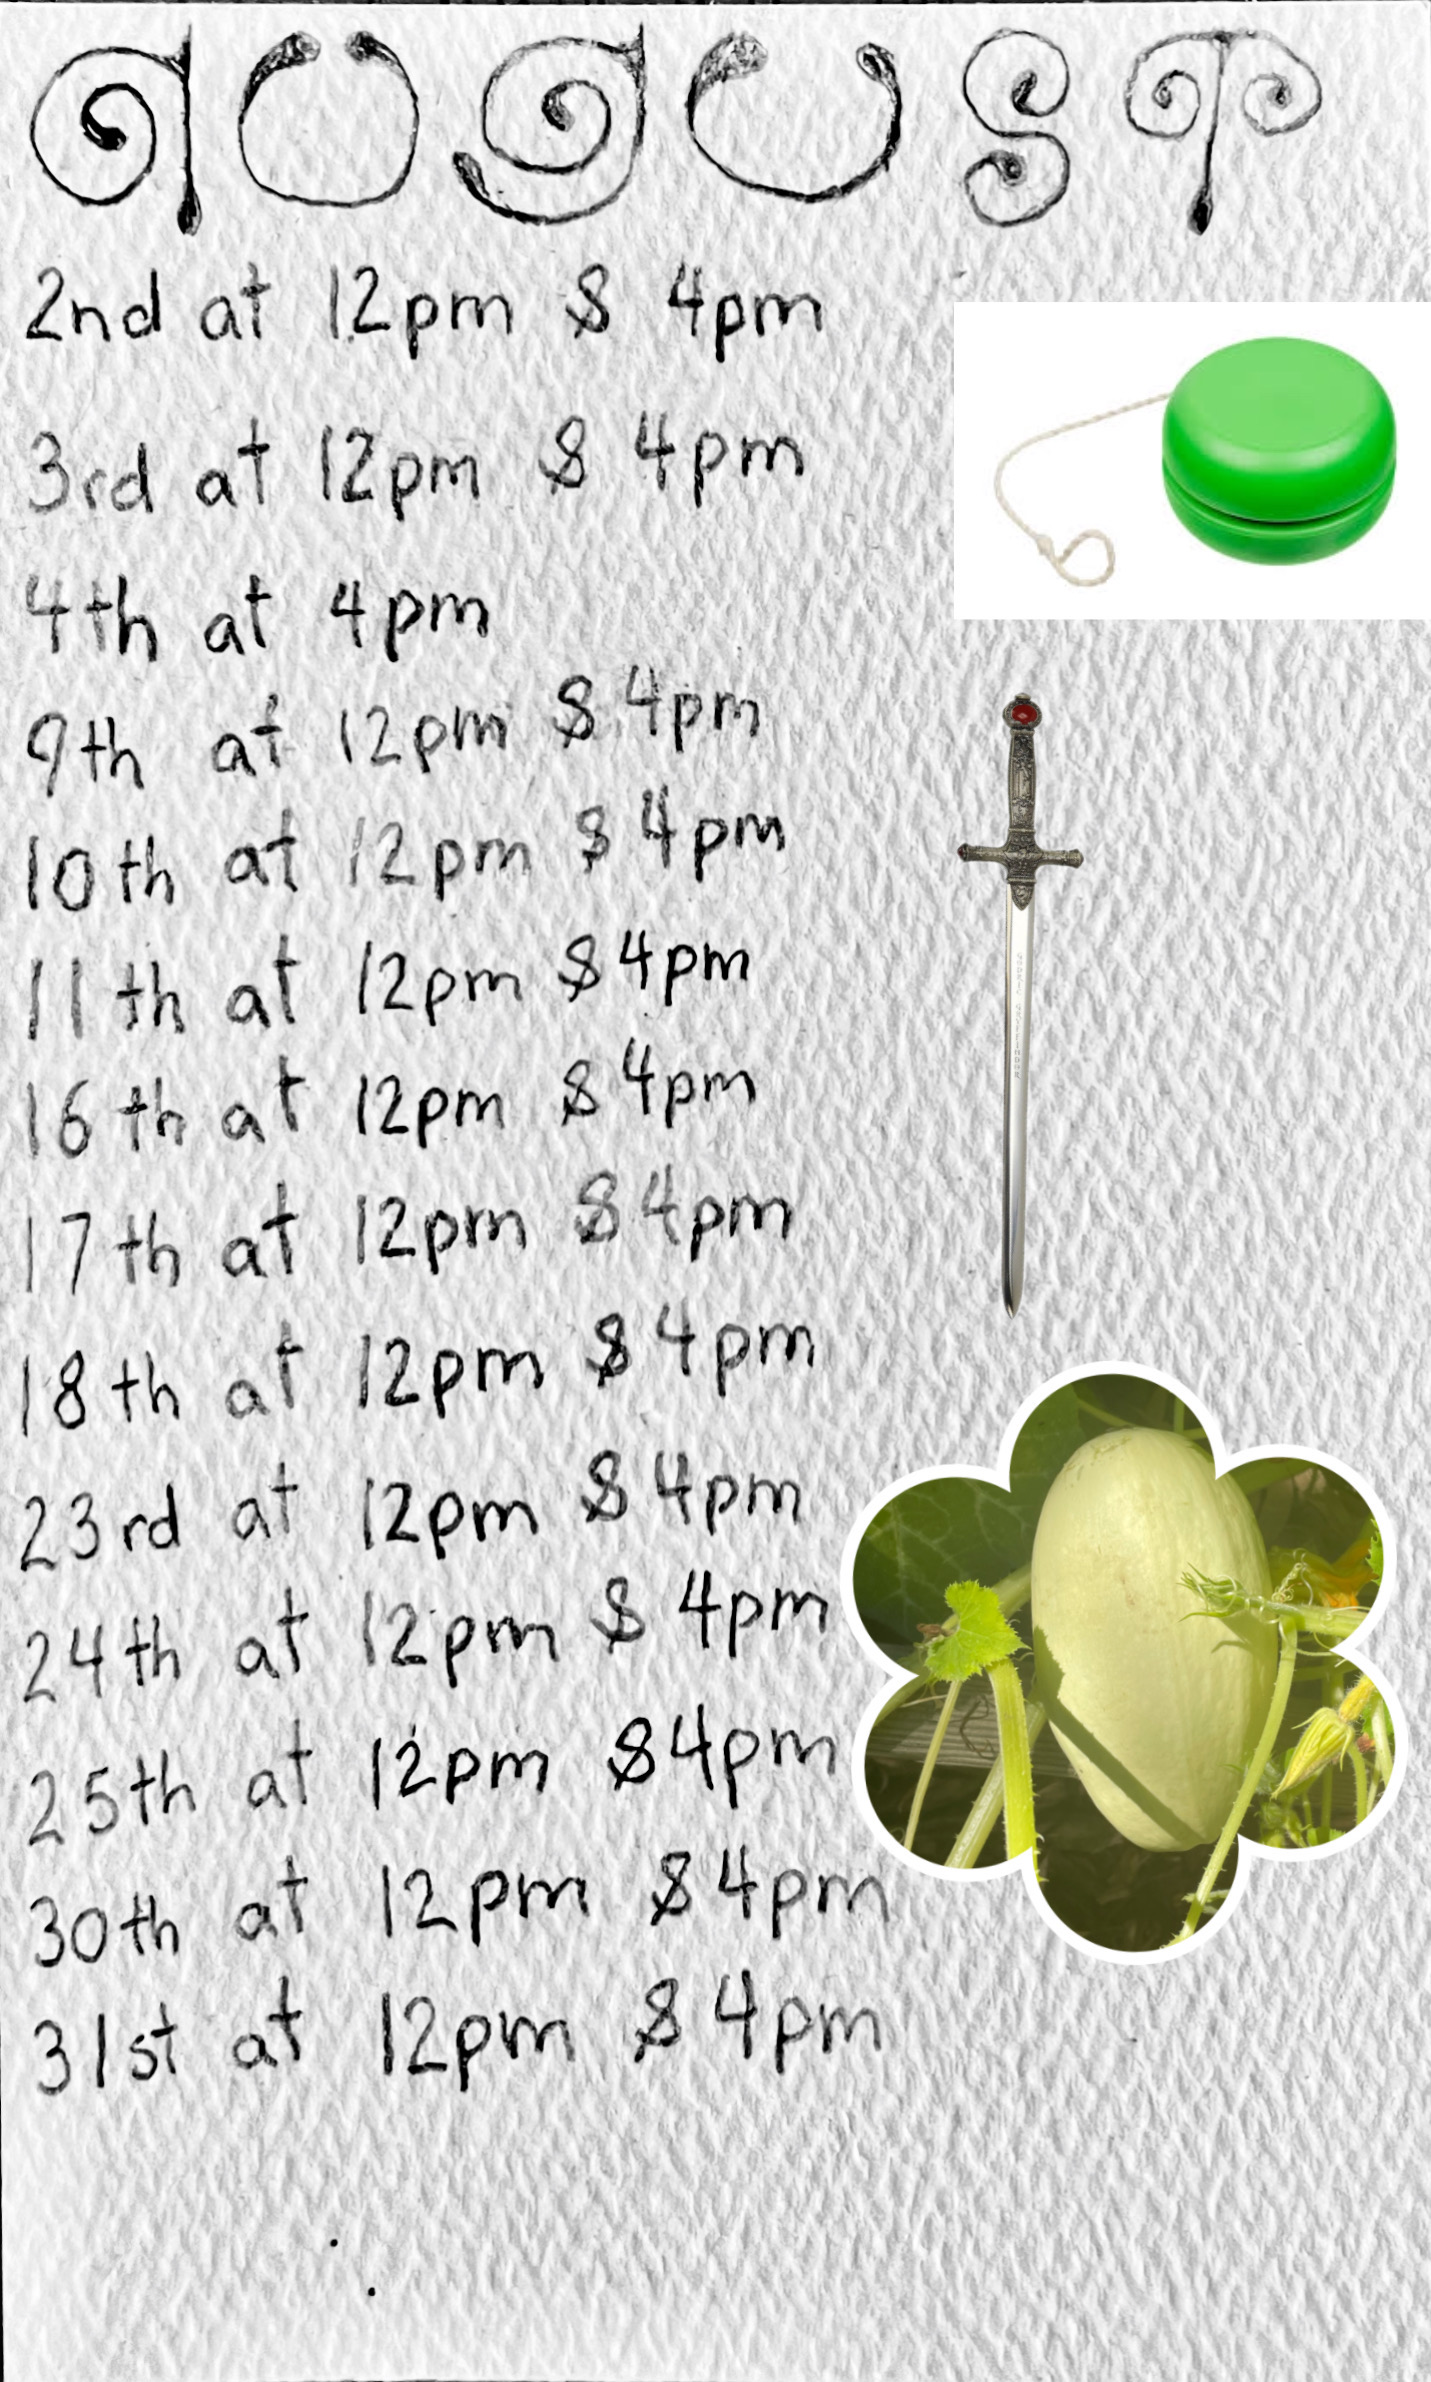
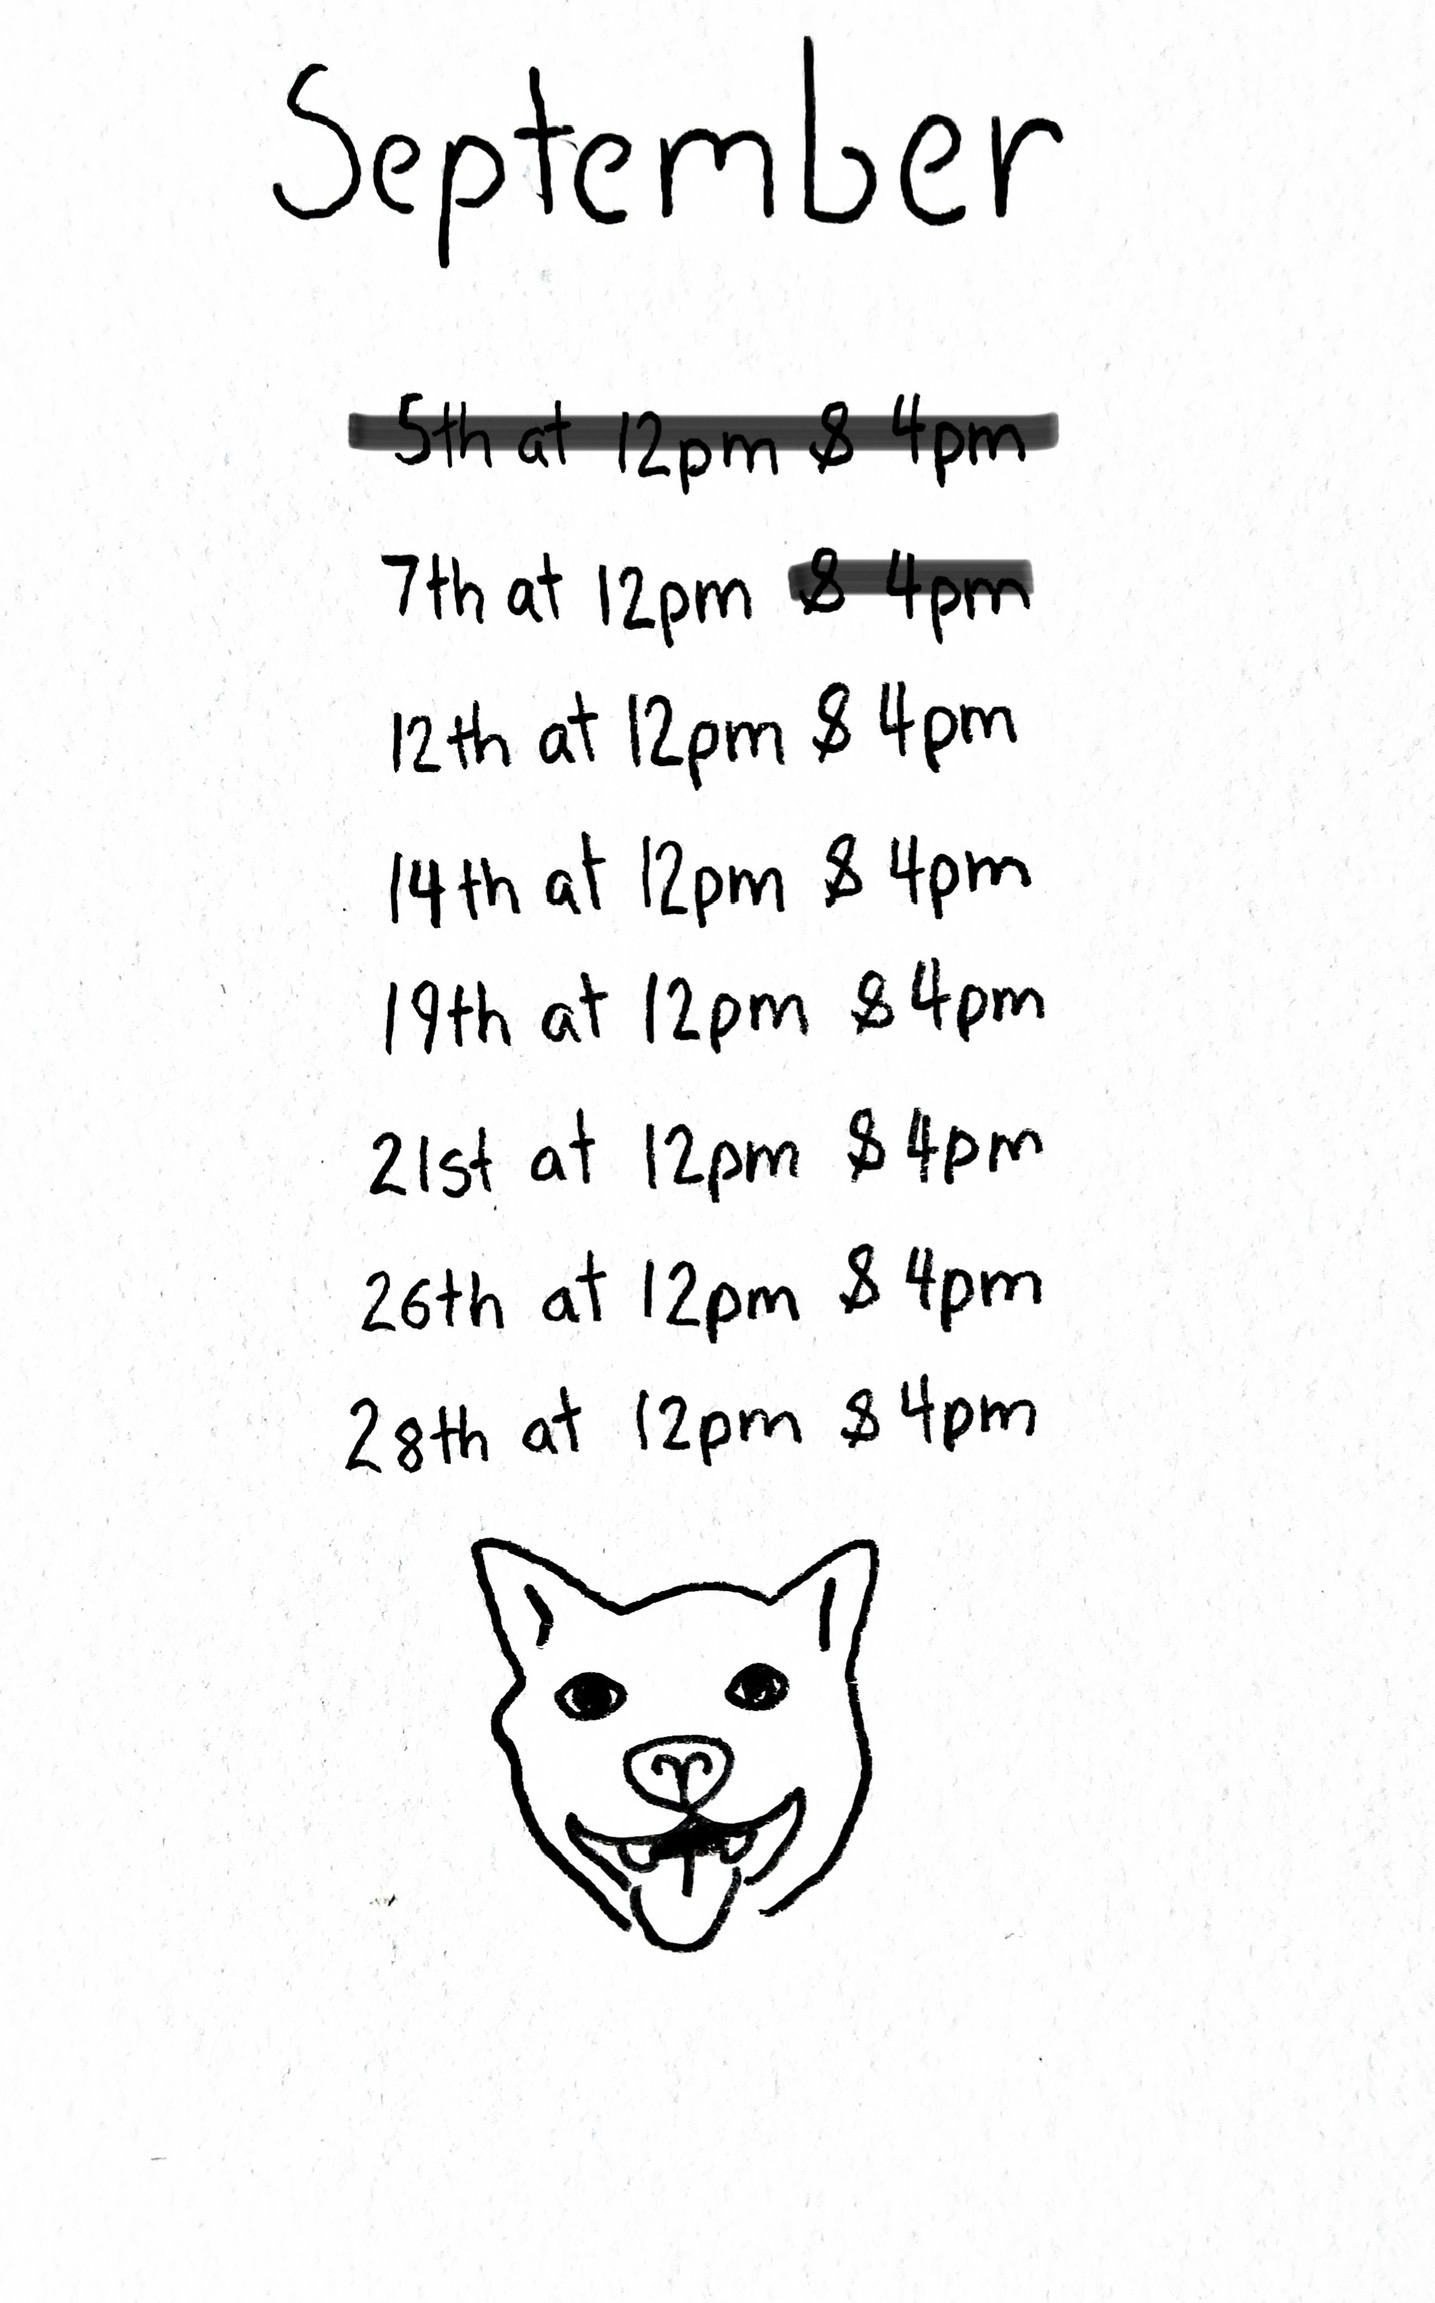
Add files via upload

diff --git a/coco website 2.html b/coco website 2.html
@@ -1,55 +1,29 @@
+<!DOCTYPE html>
 <html>
 
 <head>
-	<title style="color: #ffffff;">dirtclamp tattoos</title>
+	<title>dirtclamp tattoos</title>
 </head>
 
 <style>
-
-	a:link{
-		color: ff8cc1;
+	h1 {text-align: center;}
+	p {text-align: center;}
+	div {text-align: center;
 	}
-	a:visited{
-		color: #ff8cc1;
-	}
-
-	h1 {font-size: 24pt;
-		text-align: center;
-		color: #ffffff;}
-		p {text-align: center;}
-		div {text-align: center;
-			color: #1cceff;
-		}
-		footer {
-			position: fixed;
-			bottom: 0;
-			width: 100%;
-			height: 100px;
-			text-align: center;
-			color: #ffffff;
-		}
-
-	</style>
+</style>
 
 </head>
-<body style="background-color:black;">
-	<h1 style="color:white;">dirtclamp tattoos
+<body>
+	<h1>dirtclamp tattoos
 		<br>
 		<br>
-		<div id="dvd">
+		<div id="move">
 			<img src="coco flower3.png" width="200" height="200">
 		</div>
-		<script src="./main.js" charset="utf-8"></script>
+		<script src="./animation.js" charset="utf-8"></script>
+		</h1>
 
-	</h1>
-
-	<p style="color:white;">
-
-
-		&#9734; &#9733;&#9734; &#9733;&#9734; &#9733;&#9734; &#9733;&#9734; &#9733;&#9734; &#9733;&#9734; &#9733;&#9734; &#9733;&#9734; &#9733;&#9734; &#9733;
-		<br>
-		<br>
-		my name is coco
+	<p>my name is coco
 		<br>
 		i hand poke tattoos in oakland
 		<br>
@@ -66,30 +40,11 @@
 		<a href="archive.html" target="_self">archive</a>
 		<br>
 		<br>
-		<a href="skinpage.html" target="_self">skin</a>
+		<strong><a href="book a tattoo.html" target="_self">book a tattoo</a></strong>
 		<br>
 		<br>
-		<a href="friendspage.html" target="_self">friend sites!</a>
+		<a href="booking faq.html">booking faq</a>
 	</div>
-
-	<h1>
-		&#9734; &#9733;&#9734; &#9733;&#9734; &#9733;&#9734; &#9733;
-		<br>
-		<strong>
-			&#9734;<a href="book a tattoo.html" target="_self"> book a tattoo</a>
-		</strong> &#9734;
-		<br>
-		&#9734; &#9733;&#9734; &#9733;&#9734; &#9733;&#9734; &#9733;
-		<br>
-		<br>
-	</h1>
-
-	<footer style="font-family: Comic Sans MS;">
-		instagram: @dirtclamp  |  email: dirtclamptattoos@gmail.com
-		<br>
-		<br>
-		©2022 dirtclamp
-	</footer>
 
 </body>
 </html>

diff --git a/flash.html b/flash.html
@@ -30,12 +30,13 @@
 		&#9734; &#9733;&#9734; &#9733;&#9734; &#9733;&#9734; &#9733;&#9734; &#9733;<strong> most recent!!! </strong>&#9734; &#9733;&#9734; &#9733;&#9734; &#9733;&#9734; &#9733;&#9734; &#9733;
 		<br>
 		<br>
-		<img style="max-width: 600px; height: auto; position: center; " src="31.jpg"/>
+		<img style="max-width: 600px; height: auto; position: center; " src="32.jpg"/>
 		<br>
 		&#9734; &#9733;&#9734; &#9733;&#9734; &#9733;&#9734; &#9733;&#9734; &#9733;&#9734; &#9733;&#9734; &#9733;&#9734; &#9733;&#9734; &#9733;&#9734; &#9733;
 		<br>
 		<br>
 
+		<img style="max-width: 300px; height: auto; " src="31.jpg"/>
 		<img style="max-width: 300px; height: auto; " src="29.jpg"/>
 		<img style="max-width: 300px; height: auto; " src="28.jpg"/>
 		<img style="max-width: 300px; height: auto; " src="27.jpg"/>
@@ -45,7 +46,6 @@
 		<img style="max-width: 300px; height: auto; " src="1.jpg"/>
 		<img style="max-width: 300px; height: auto; " src="2.jpg"/>
 		<img style="max-width: 300px; height: auto; " src="3.jpg"/>
-		<img style="max-width: 300px; height: auto; " src="4.jpg"/>
 		<img style="max-width: 300px; height: auto; " src="5.jpg"/>
 		<img style="max-width: 300px; height: auto; " src="6.jpg"/>
 		<img style="max-width: 300px; height: auto; " src="7.jpg"/>
@@ -54,12 +54,6 @@
 		<img style="max-width: 300px; height: auto; " src="10.jpg"/>
 		<img style="max-width: 300px; height: auto; " src="12.jpg"/>
 		<img style="max-width: 300px; height: auto; " src="13.jpg"/>
-		<img style="max-width: 300px; height: auto; " src="14.jpg"/>
-		<img style="max-width: 300px; height: auto; " src="15.jpg"/>
-		<img style="max-width: 300px; height: auto; " src="16.jpg"/>
-		<img style="max-width: 300px; height: auto; " src="18.jpg"/>
-		<img style="max-width: 300px; height: auto; " src="19.jpg"/>
-		<img style="max-width: 300px; height: auto; " src="20.jpg"/>
 		<img style="max-width: 300px; height: auto; " src="21.jpg"/>
 </p>
 

diff --git a/archive.html b/archive.html
@@ -29,9 +29,10 @@
 		all flash on this <strong>cannot</strong> be tattooed again!
 		<br>
 		<br>
-		<img style="max-width: 300px; height: auto; " src="17.jpg"/>
+		<img style="max-width: 300px; height: auto; " src="4.jpg"/>
 		<img style="max-width: 300px; height: auto; " src="22.jpg"/>
 		<img style="max-width: 300px; height: auto; " src="taken1.jpg"/>
+
 	</p>
 
 	<footer style="font-family: Comic Sans MS;">

diff --git a/book a tattoo.html b/book a tattoo.html
@@ -38,7 +38,7 @@
 			<img src="coco-pop.gif" width="300" height="300">
 		</p>
 		<br>
- <p style="color: white;">this is my schedule for august!! weeeeeeeee!</p>
+ <p style="color: white;">this is my schedule for september!! weeeeeeeee!</p>
 				<p>
 				<img style="max-width: 300px; height: auto; " src="schedule.jpg"/>
 	

diff --git a/index.html b/index.html
@@ -37,7 +37,7 @@
 		<br>
 		<br>
 		<div id="dvd">
-			<img src="coco flower3.png" width="200" height="200">
+			<img src="me.png" width="200" height="200">
 		</div>
 		<script src="./main.js" charset="utf-8"></script>
 
